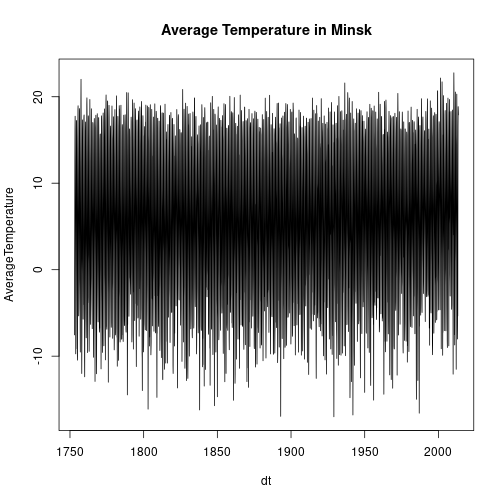
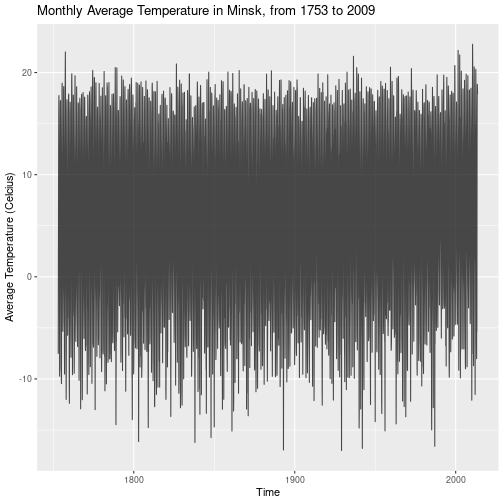
new graphs

diff --git a/workspace.md b/workspace.md
@@ -137,13 +137,13 @@ We can create some plots to observe initial trends in the data
 
 
 ```r
-plot(minsk_data[, c("dt","AverageTemperature")],type="l",main="Average Temperature in Minsk")
+ggplot() + geom_line(data = minsk_data, aes(x= dt, y = AverageTemperature), alpha=0.7) + ggtitle("Monthly Average Temperature in Minsk, from 1753 to 2009") + xlab("Time") + ylab("Average Temperature (Celcius)")
 ```
 
 ![plot of chunk unnamed-chunk-8](Figures/EDA/EDA-unnamed-chunk-8-1.png)
 
 ```r
-plot(minsk_data[, c("dt","AverageTemperatureUncertainty")],type="l",main="Uncertainty of Average Temperature Reading in Minsk")
+ggplot() + geom_line(data = minsk_data, aes(x= dt, y = AverageTemperatureUncertainty), alpha=0.7) + ggtitle("Uncertainty in Monthly Average Temperature data") + xlab("Time") + ylab("Uncertainty (Celcius)")
 ```
 
 ![plot of chunk unnamed-chunk-8](Figures/EDA/EDA-unnamed-chunk-8-2.png)
@@ -331,16 +331,18 @@ p_values
 ##             DecPVal
 ## 1 0.480465612671691
 ```
-For a single hypothesis test, the significance level &alpha; is normally chosen to be 0.05. This results in the type 1 error rate (the probability of a rejecting a true null hypothesis) being kept at 5%. However, with multiple tests, we must use a more conservative significance level in order to control the Family Wise Error Rate (the probability of rejecting at least one true null hypothesis). 
+These p-values are large, well above any significance threshold we are likely to set. However, we have a good opportunity to discuss &alpha;-correction:
 
+For a single hypothesis test, the significance level &alpha; is normally chosen to be 0.05. This results in the type 1 error rate (the probability of a rejecting a true null hypothesis) being kept at 5%.
 
-Latex Tests
+However, with multiple tests, the probabilities are compounded. For example, if our analysis comprised of 20 hypotheses, we can always expect to reject one true null when using a significance level of &alpha;=0.05. We must be focussed on controlling the Family Wise Error Rate (the probability of rejecting at least one true null hypothesis). We can calculate how this value changes under any given individual significance level &alpha;, when we have &N; total hypotheses:
 
-Inline
-$`\sqrt{2}`$
+![equation1](Figures/EDA/equation_1.png)
 
-Environment
+Assuming &k; out of &N; null hypotheses are true (where &k;&ge;1):
 
-```math
-\sqrt{2}
-```
+![equation2](Figures/EDA/equation_2.png)
+
+And hence the FWER &ge; &alpha; for any given significance level. Therefore, choosing the standard level &alpha;=0.05 actually results in a greater collective error rate, so we must select &alpha; more conservatively in order to keep the Family Wise Error Rate at 5%.
+
+The simplest method of controlling the FWER is the Bonferroni Correction at a level of &beta;, which means choosing a general significance level &alpha;=&beta;/&N; where &N; is the number of seperate tests, which in our case (&N;=12) means &alpha;&asymp;0.0042.
